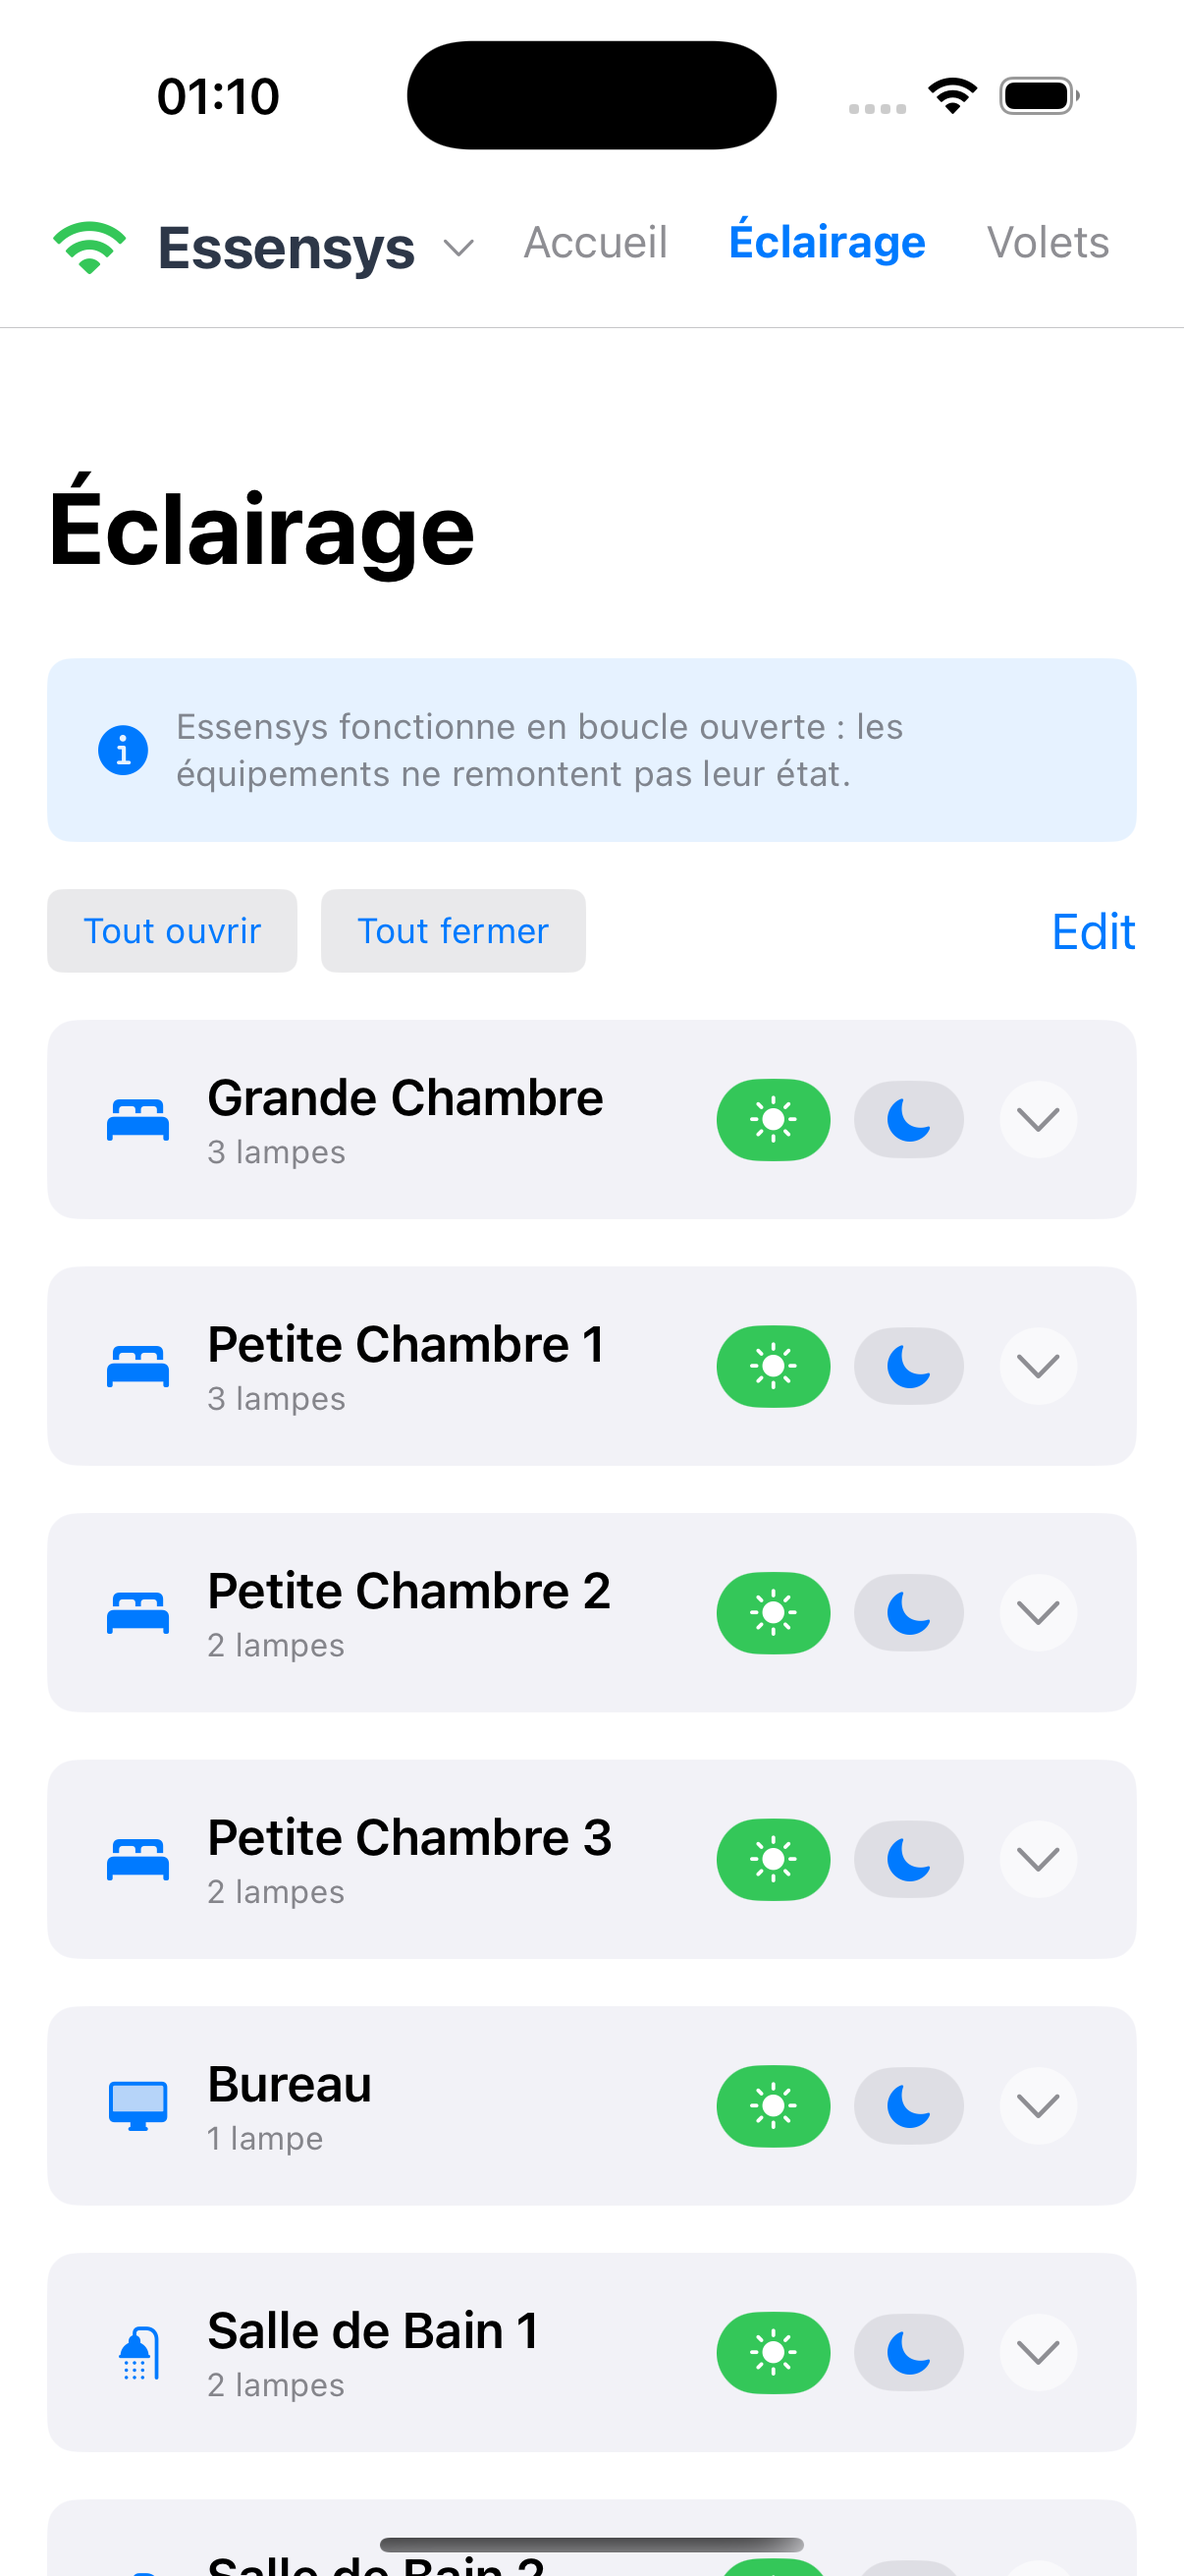
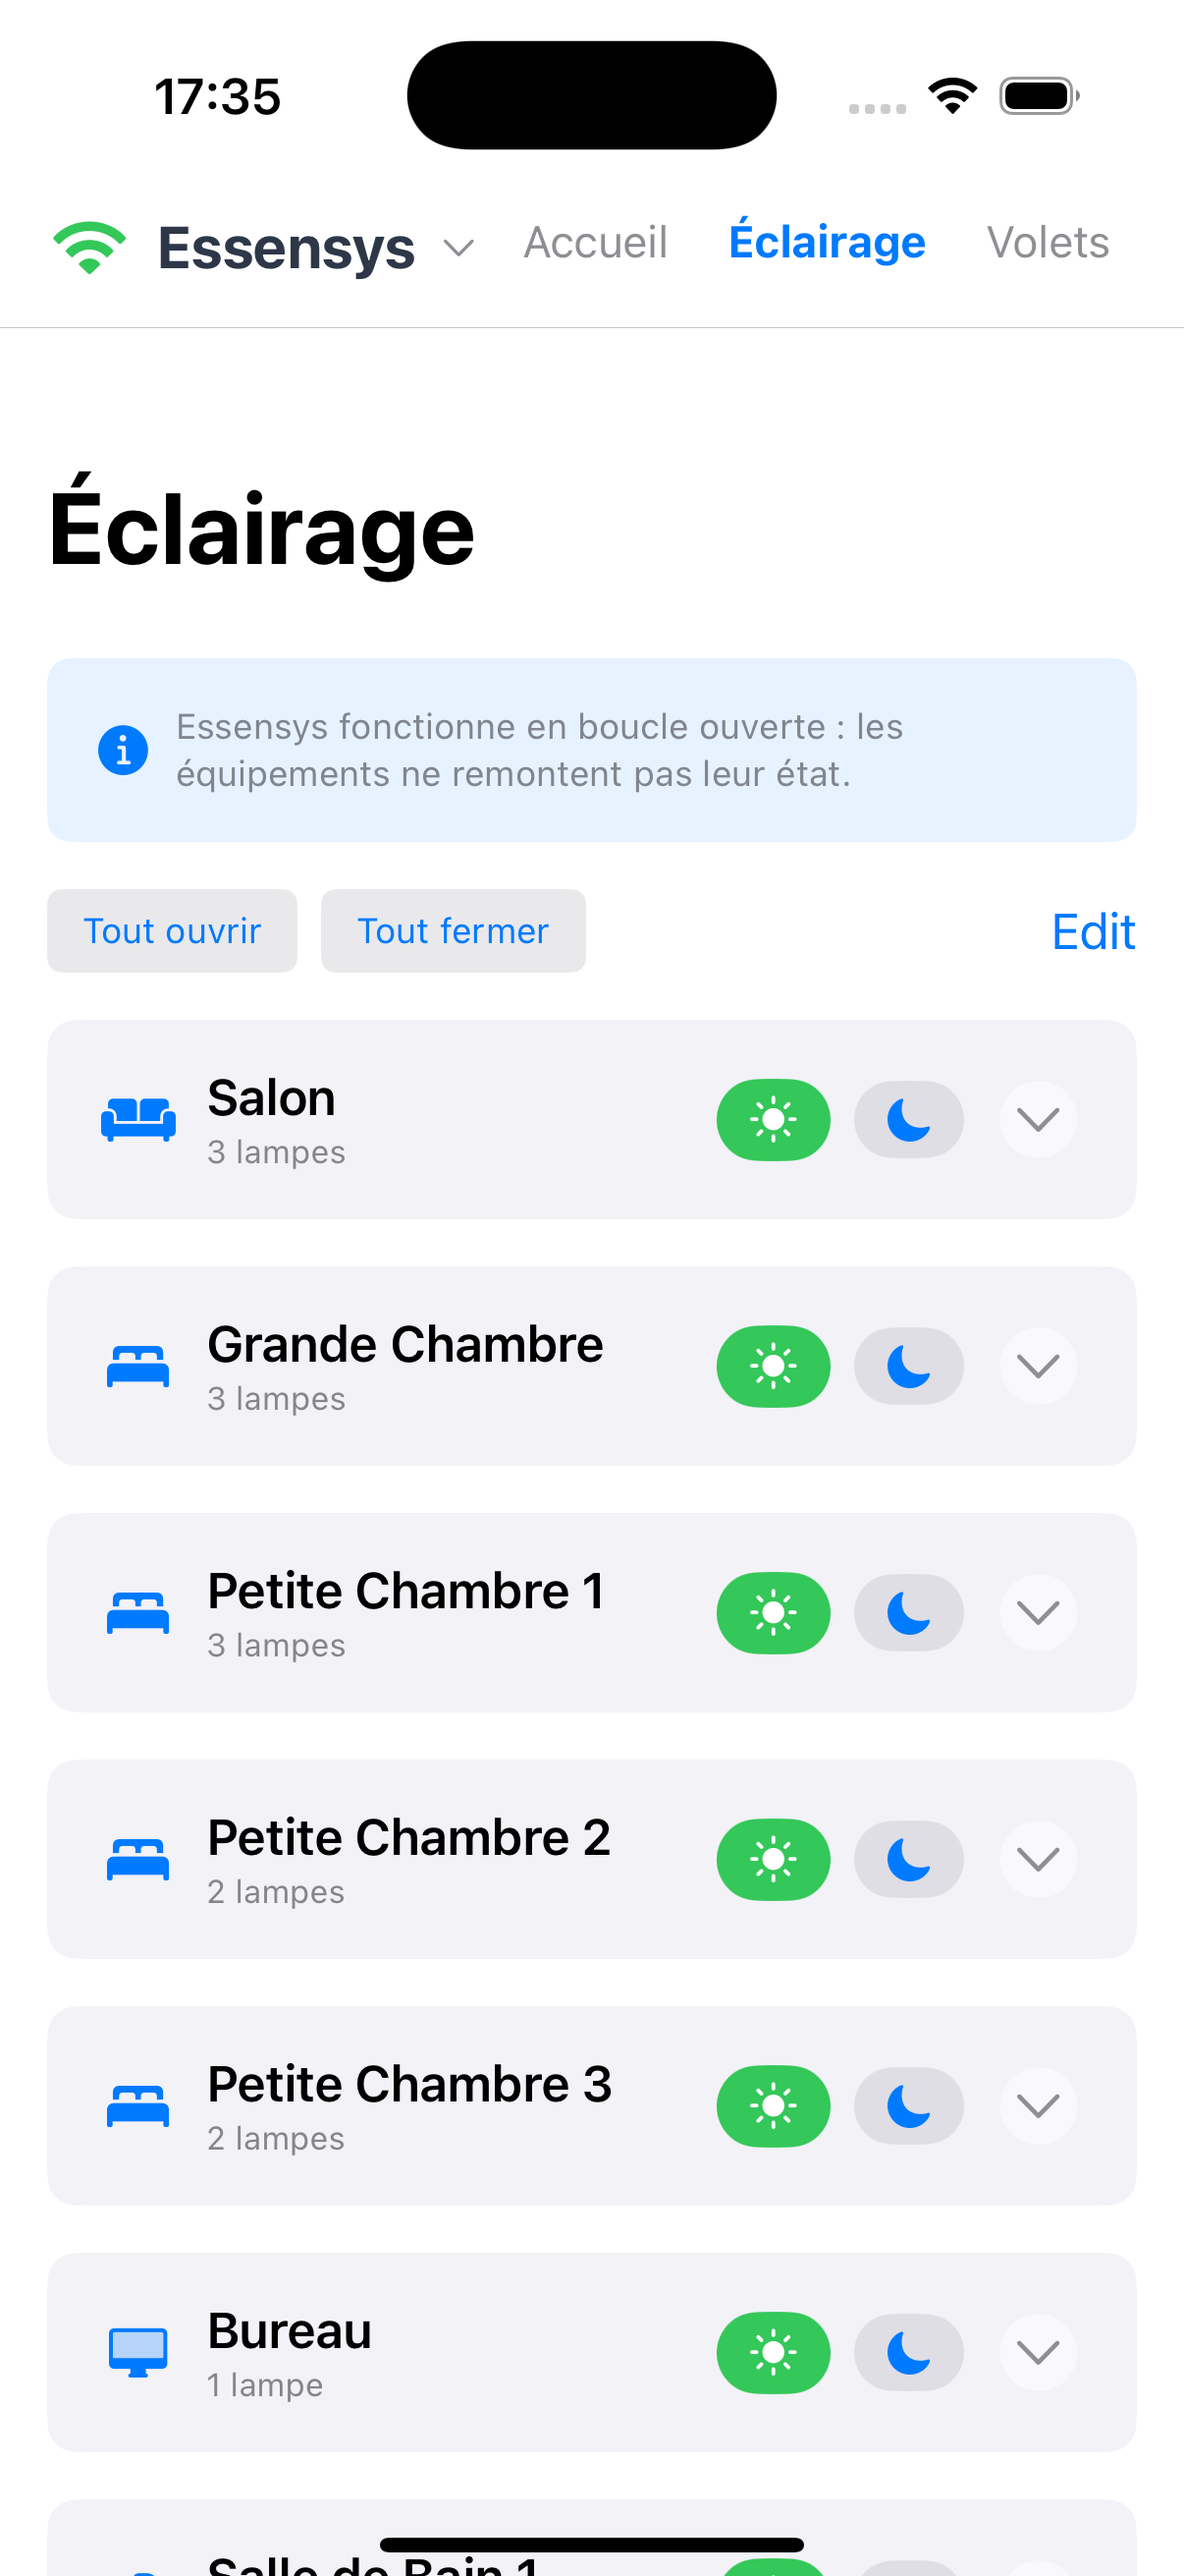
update image

diff --git a/README.md b/README.md
@@ -46,7 +46,7 @@ Veuillez vous référer au projet d'installation pour plus de détails :
 
 | Accueil & Scènes | Éclairage (Groupé) | Volets |
 |:---:|:---:|:---:|
-| ![Accueil](img/App001.png) | ![Éclairage](img/App002.png) | ![Volets](img/App003.png) |
+| ![Accueil](img/App001.png) | ![Éclairage](img/App005.png) | ![Volets](img/App007.png) |
 
 ### Galerie Complète
 
